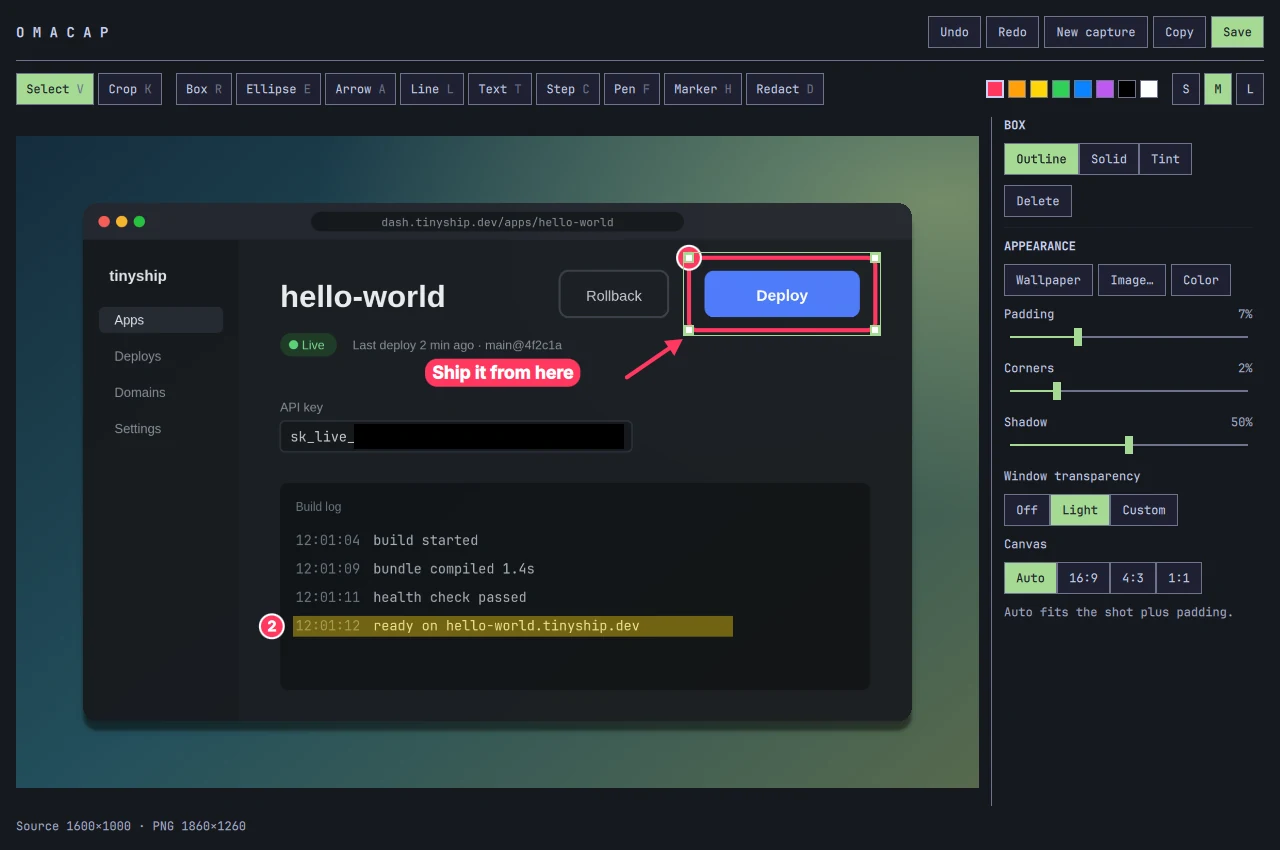
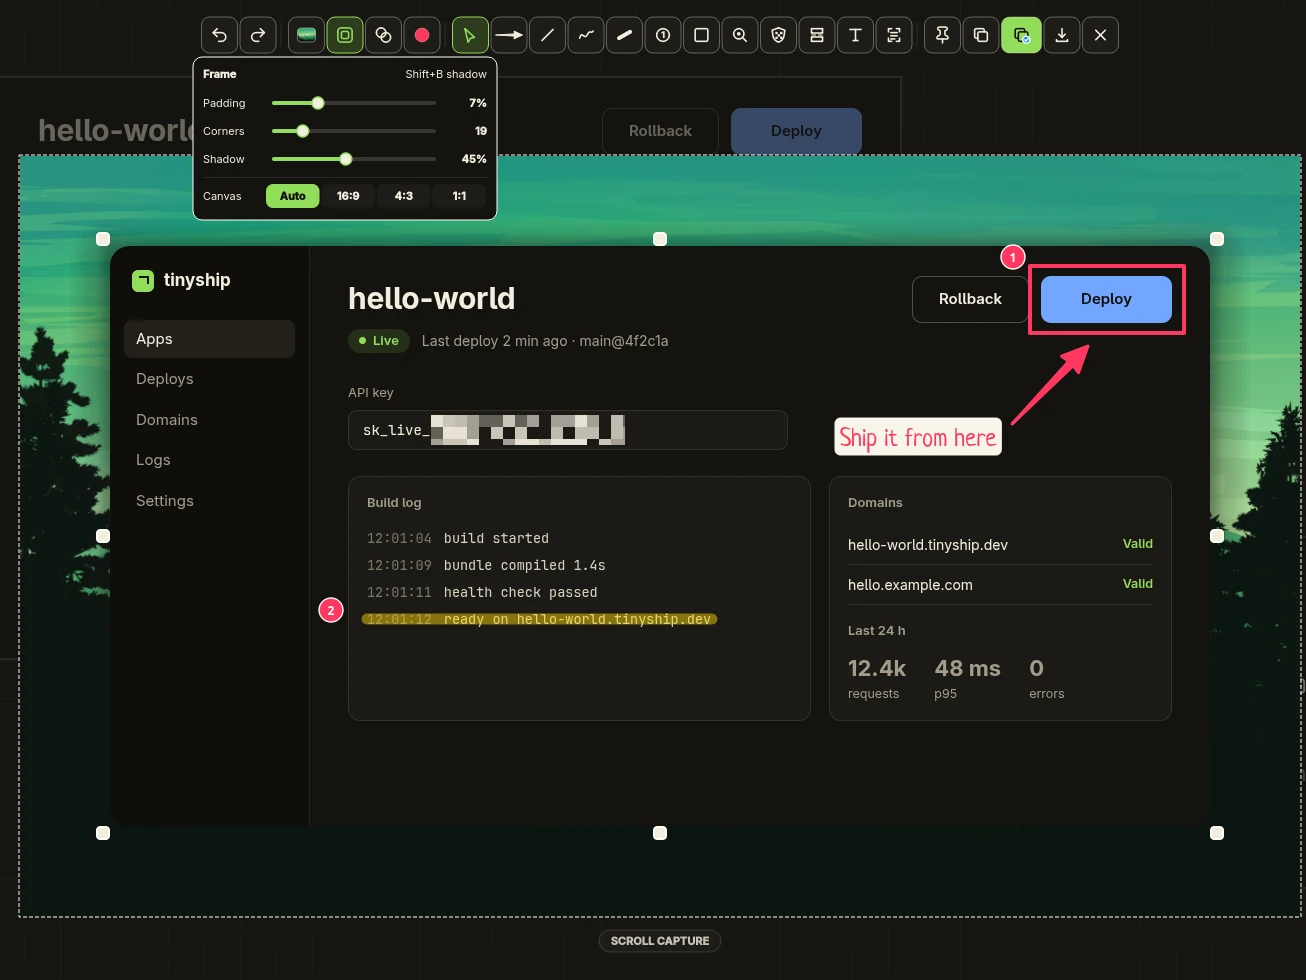
docs: describe the picker, card and overlay editors in the README
The README described the old app: a start window, a sidebar editor and
Omarchy's region picker. It now follows the new flow: one picker for
screenshots and recordings, the record bar and countdown, the card, both
editors over the desktop, export, recovery, key bindings and where files
go. Omasnap is credited in the intro and licence.

New screenshots come from a nested Hyprland with a generated dashboard and
terminal demo: the video editor, the picker in record mode, the
countdown, the card, zoom aiming, the export popover and the screenshot
editor. The recorder window's image is gone.

diff --git a/README.md b/README.md
@@ -2,24 +2,27 @@
 
 Screen recordings and screenshots worth sharing. Made for Omarchy.
 
-Record a window, clean up the take, and give it a background, padding and smooth zooms. Export an MP4 or GIF for a demo, tutorial or product update. Screenshots get the same frame, plus boxes, arrows, text, numbered steps and redaction. Everything stays on your computer.
+Press a key and pick an area. A screenshot is copied the moment you click, already framed like your last one. A recording gets a short editor: trim it, give it a background, padding and smooth zooms, and export an MP4 or GIF for a demo, tutorial or product update. Everything stays on your computer.
 
-[Install](#install) · [How to use it](#record-and-edit) · [Screenshots](#style-a-screenshot) · [MIT license](https://github.com/allisonmahmood/omacap/blob/main/LICENSE)
+OmaCap is built on [Omasnap](https://github.com/omacom/omasnap), Omarchy's screenshot tool, so its picker, annotation tools, pins and keys work the same way here.
 
-![OmaCap Studio showing a translucent terminal demo over a wallpaper, custom opacity controls and a zoom section on the timeline](docs/images/studio.webp)
+[Install](#install) · [Screenshots](#take-a-screenshot) · [Recordings](#record-your-screen) · [MIT license](https://github.com/allisonmahmood/omacap/blob/main/LICENSE)
 
-*The real OmaCap editor, shown with a generated terminal demo.*
+![OmaCap's video editor over a dimmed desktop: a terminal demo on a forest backdrop at 87% opacity, the transparency popover open and a zoom on the timeline](docs/images/studio.webp)
+
+*The real video editor, shown with a generated terminal demo.*
 
 ## A short edit, then you're done
 
-- **Make it look right.** Crop the recording, add padding, soften the corners and set a shadow. Your current Omarchy wallpaper is the default background; you can choose another image or a solid color.
-- **Keep the useful parts.** Trim the start and end, remove mistakes in the middle, and undo an edit when you change your mind.
-- **Zoom on purpose.** Keep the whole window visible by default. Add a zoom section, choose its focus, and adjust its timing on the timeline.
-- **Include yourself when you want.** Record your microphone, desktop audio and camera. Move the camera overlay, choose rounded corners or a circle, add a shadow, and mute either audio track.
-- **Take the file anywhere.** Export MP4 or GIF with your chosen size and frame rate. No account, upload or project library.
-- **Screenshots too.** Take one with Omarchy's region picker, mark it up with Omasnap's annotation tools, then copy or save a PNG at full resolution, up to 8192 px on its longer side.
+- **One picker for both.** The screen freezes: drag an area, click a window, or click empty space for the whole monitor. `V` switches between a screenshot and a recording.
+- **Make it look right.** A backdrop (your Omarchy wallpaper by default), padding, rounded corners, a shadow and optional window transparency. New screenshots start with the look you used last.
+- **Keep the useful parts.** Trim the ends, split and delete mistakes in the middle, and undo when you change your mind.
+- **Zoom on purpose.** Add a zoom at the playhead and aim it on the preview. OmaCap pans smoothly between zooms.
+- **Include yourself when you want.** Record your microphone, desktop audio and camera. Place the camera, choose a rectangle or circle, and mute either audio track.
+- **Mark up screenshots.** Arrows, boxes, text, numbered steps, highlighter, spotlight, redaction, cut-out bands, OCR, scrolling capture and pins, all from Omasnap.
+- **Take the file anywhere.** MP4 or GIF at your chosen size and frame rate. No account, upload or project library.
 
-The controls follow your Omarchy theme. Changing themes updates the app without changing the video you're editing.
+The controls follow your Omarchy theme, live.
 
 ## Install
 
@@ -32,9 +35,20 @@ sudo pacman -U ./omacap-*.pkg.tar.zst
 
 Keep only the package version you want to install in that directory. Pacman installs its dependencies. Release binaries target current Omarchy stable on x86_64. Update Omarchy through its normal update menu before installing a new OmaCap release.
 
-Open **OmaCap** from your application launcher, or run `omacap`. Already have a recording or a screenshot? Open it with `omacap /path/to/video.mp4` or `omacap /path/to/shot.png`.
+Open **OmaCap** from your application launcher to take a screenshot; its **Record screen** action runs `omacap --record`. To open a recording or screenshot you already have, run `omacap /path/to/video.mp4` or `omacap /path/to/shot.png`.
 
 For updates, download and install the newer package using the same steps. GitHub releases do not update through Omarchy or `yay`; you can subscribe with **Watch > Custom > Releases** on this repository. AUR distribution is not available yet. Uninstall with `sudo pacman -R omacap`.
+
+### Bind keys
+
+Add two bindings to `~/.config/hypr/bindings.lua`, then run `hyprctl reload`. Print stays with Omarchy's own screenshot tool:
+
+```lua
+o.bind("SHIFT + PRINT", "OmaCap screenshot", "omacap")
+o.bind("ALT + SHIFT + PRINT", "OmaCap record", "omacap --record")
+```
+
+Each key toggles. The screenshot key closes an open picker, and the record key stops a recording. Keep "OmaCap" and "record" in the record binding's description: the countdown finds the key by its description and tells you how to stop.
 
 ### Build from source
 
@@ -48,99 +62,133 @@ cd omacap
 
 This builds the committed checkout and installs its dependencies. OmaCap targets Hyprland and PipeWire on current Omarchy. Other desktops and distributions are not tested.
 
-## Record and edit
+## Take a screenshot
 
-### 1. Record a window or display
-
-Choose your microphone, camera and desktop audio options. Click **Select source and record**, choose a window or display in the system picker, and wait for the three-second countdown. Stop recording to open the editor. The recording is saved in your Videos folder as `omacap-<date>_<time>.mkv`.
-
-<img src="docs/images/recorder.webp" alt="OmaCap recorder with microphone, camera and desktop audio options" width="360">
-
-### 2. Crop, style and trim
-
-Click **Crop** to open the full recording in a dedicated crop view. Drag the corners to resize the selection, or drag inside it to move it. Click **Confirm crop** to apply it to the preview, **Cancel** to keep the previous crop, or **Reset** to select the full recording before confirming. Reopening Crop always shows the full source, so you can expand an earlier selection. Set the background, padding, corners and shadow while watching the preview. If you recorded a camera, choose its shape, corners and shadow, then drag it into place.
-
-**Window transparency** reveals the chosen background through the recording. Choose **Off**, **Light** for 96% opacity, or **Custom** to show an opacity slider. The camera stays opaque. The treatment appears in both MP4 and GIF exports and starts off for each new recording.
-
-Drag across the recording or its audio waveforms to select a range. **Keep range** trims the ends; **Delete selection** removes that range. Click **✂ Cut** and click a track to split a clip. Return to **Select**, click a clip, and press Delete to remove it. All recorded tracks stay linked.
-
-### 3. Add a deliberate zoom
-
-Click an empty part of the **Zooms** lane, or use **Add zoom**. Click a zoom block to preview it and show its focus map in the sidebar. Drag the focus circle or click the map; changes apply immediately, and each drag is one undo step. Click the recording or time ruler to return to the normal appearance controls and seek. Drag the zoom block or its ends to adjust its timing. OmaCap smoothly pans and zooms between views. Touching zoom sections transition directly between their targets without pulling back to the whole window.
-
-![Choosing a zoom focus in the sidebar while the main preview shows the zoom](docs/images/zoom.webp)
-
-### 4. Export and share
-
-Click **Export**, choose MP4 or GIF, set the output size and frame rate, and pick a local destination. MP4 supports audio; GIF is a silent loop of the whole edit. OmaCap shows the file size when the export finishes and warns when a GIF is over the 10 MB limit that GitHub and Discord apply.
-
-![OmaCap's local export dialog with MP4, output width, frame rate and quality settings](docs/images/export.webp)
-
-### Keyboard shortcuts
-
-| Action | Shortcut |
-| --- | --- |
-| Play / pause | Space |
-| Step backward / forward | Left / Right |
-| Cut / select mode | C / V, with the timeline focused |
-| Delete selected clip, range or zoom | Delete / Backspace, with the timeline focused |
-| Clear the zoom or annotation selection, or leave crop, cut or an annotation tool | Escape |
-| Undo | Ctrl+Z |
-| Redo | Ctrl+Shift+Z |
-| Annotation tools and colours, in a screenshot | V K R E A L T C F H D, 1–8 |
-| Copy / save a screenshot | Ctrl+C / Ctrl+S |
-| Copy and save a screenshot | Enter |
-
-There is no saved-project format. An interrupted edit has a recovery checkpoint. Export leaves the editor open so you can export again. Closing or discarding clears the edit; recordings, imported originals and exported files are kept.
-
-## Style a screenshot
-
-![OmaCap's screenshot editor with a box, arrow, text pill, numbered steps, a highlighted log line and a redacted API key over a dashboard](docs/images/screenshot.webp)
+![OmaCap's screenshot editor: a dashboard on a forest backdrop with a box and arrow on the Deploy button, a text label, numbered steps, a highlighted log line and a redacted API key; the Frame popover is open](docs/images/screenshot.webp)
 
 *The real screenshot editor, shown with a generated dashboard.*
 
-Click **Take screenshot** in the start window, or run `omacap --screenshot`. OmaCap gets out of the way and opens Omarchy's region picker: drag a region, click a window, or click empty space for the whole screen. Press Escape to cancel. The shot opens in the editor at your display's native resolution.
+Run `omacap`, or press your screenshot key. The screen freezes under the picker: drag an area, click a window, or click empty space for the whole monitor. The shot is copied and saved straight away, wearing the look you used last, and a preview appears in the corner. Hover it to edit, copy, pin or drag out the file. It fades after 10 seconds unless you pin it.
 
-To take one from a key, add a binding to `~/.config/hypr/bindings.lua`. Print stays with Omarchy's own screenshot tool:
+Press `E` in the picker to open the editor instead. `Tab` cycles the area's shape (free, square, 3:4, 16:9), `R` brings back the last area, and `S` captures a scrolling region and stitches it into one tall image. The stack on the right edge holds your last five shots; click one to reopen it with its marks still editable.
 
-```lua
-o.bind("SHIFT + PRINT", "OmaCap screenshot", "omacap --screenshot")
-```
+`omacap shot.png` opens an image you already have, and `omacap --clipboard` opens the one on the clipboard. OmaCap edits its own copy, so the original never changes.
 
-The binding works while OmaCap is open, too. If the current edit hasn't been copied, saved or exported, OmaCap asks before replacing it.
+### Style and annotate
 
-To open a screenshot you already have, run `omacap shot.png` with a PNG, JPEG or WebP, or click **Open image or video**. An animated GIF opens on the timeline like a recording; other animated images open as their first frame. OmaCap edits its own copy, so the original image is never changed.
+The editor draws over your desktop. `W` moves it into a normal window and back. The look lives in three toolbar popovers:
 
-A screenshot gets the same crop, background, padding, corners, shadow and window transparency as a recording, with no timeline. Choose a **Canvas**: **Auto** fits the shot plus its padding, and **16:9**, **4:3** and **1:1** suit posts.
+- **Backdrop**: your Omarchy wallpaper, Omasnap's slate and gradients, a colour, an image, or off. `B` cycles through them.
+- **Frame**: padding, corners and shadow (`Shift+B` toggles the shadow), and the canvas. **Auto** fits the shot plus its padding; **16:9**, **4:3** and **1:1** suit posts.
+- **Glass**: the window opaque, light (96%) or a custom opacity, so the backdrop shows through.
 
-The styled shot keeps the screenshot's own resolution, up to 8192 px on its longer side, and the status bar shows its size. **Copy** puts a PNG on the clipboard, which stays there after OmaCap closes. **Save** writes `omacap-<date>_<time>.png` to the folder Omarchy saves screenshots in: `$OMARCHY_SCREENSHOT_DIR` if it is set, or `~/Pictures/Screenshots`.
+| Key | Tool |
+| --- | --- |
+| V | Select. Drag to move, use a handle to resize, Delete removes. Arrow keys nudge 1 px, or 10 px with Shift. |
+| A | Arrow. Press again for pointy, curved and double arrows. |
+| L | Line. Hold Shift to snap to 45°. |
+| R / E | Rectangle / ellipse. Hold Shift for a square or circle. |
+| T | Text on a pill. Press again for plain text; `Shift+T` changes the font. |
+| C | Numbered step. Steps renumber when one is deleted. |
+| F / H | Pen / highlighter. The highlighter snaps to a line of text. |
+| S | Spotlight. |
+| D | Redact. Press again to switch between mosaic and solid. |
+| X | Cut out a band and close the gap. Hold Ctrl to insert one instead. |
+| O | Recognise all text and copy it. |
+| 1–8 | Colour of the selected mark and the next one. |
 
-### Annotate
+| Key | Output |
+| --- | --- |
+| Enter | Copy and save |
+| Ctrl+C / Ctrl+S | Copy only / save only |
+| Ctrl+Shift+S | Save as |
+| P | Pin it on screen |
+| Ctrl+Z / Ctrl+Shift+Z | Undo / redo |
+| Esc | Close; the shot stays in the stack on the right |
 
-A screenshot gets a tool row with Omasnap's annotation tools. Pick one, then drag on the shot or click it; OmaCap returns to Select afterwards.
+Screenshots are saved as `omacap-<date>_<time>-<app>.png` in `$OMARCHY_SCREENSHOT_DIR`, or `~/Pictures/Screenshots`. The picker and editor list their keys in a card at the bottom left; `?` folds it away. [Omasnap's README](snap/README.md#controls) lists every key and modifier.
 
-| Tool | Key | What it does |
-| --- | --- | --- |
-| Select | V | Click a mark to select it. Drag it to move, or drag a handle to resize. Arrow keys nudge it 1 px, or 10 px with Shift. Delete removes it. |
-| Crop | K | Opens the crop view. |
-| Box / Ellipse | R / E | Outline by default; the sidebar switches the selection to Solid or Tint. Hold Shift for a square or circle. |
-| Arrow / Line | A / L | Hold Shift to snap to 45°. |
-| Text | T | Click and type. Enter finishes; Shift+Enter adds a line. Double-click text to edit it, and choose Pill or Plain in the sidebar. |
-| Step | C | Click to place a numbered marker. Steps renumber when one is deleted. |
-| Pen / Marker | F / H | Freehand, and a translucent highlighter. |
-| Redact | D | An opaque black box. Nothing of the screenshot survives under it in the PNG. |
+## Record your screen
 
-Keys 1–8 and the colour swatches choose a colour, and the S, M and L buttons the size, for the selected mark and the next one. Sizes scale with the screenshot's resolution. Marks stay fully opaque over a transparent window, follow the screenshot when you crop, and may overhang the padding. Each mark, move or style change is one undo step.
+### 1. Pick an area
 
-## Before you record
+Run `omacap --record`, press your record key, or press `V` in the screenshot picker. Drag an area, click a window, or click empty space for the whole monitor. A bar appears beside it: click your microphone, camera and desktop audio, or press `M`, `C` and `D`. OmaCap remembers them. Press Enter or click **Record**.
 
-Keep a selected window at a fixed size. Resizing it or moving it between monitors with different scales can interrupt the Hyprland portal stream. Use display capture when your demo needs window resizing.
+![The picker in record mode: a terminal window picked, with a bar below it for the microphone, camera, desktop audio and Record](docs/images/record.webp)
 
-This version targets short SDR demos on a 16:9 canvas. Zooms are manual, and real camera/microphone synchronization should be checked with your own devices.
+### 2. Record
+
+A three-second countdown runs over the area, then recording starts. Press your record key again to stop.
+
+![The countdown over the picked terminal, naming the key that stops it, with a dashed outline and a timer outside the area](docs/images/recording.webp)
+
+Nothing of OmaCap ends up in the file. The recording is cropped to the area as it is captured, and the outline and timer sit outside it, or on another monitor. When you record a whole monitor and have no other, they aren't shown.
+
+The first time you record each monitor, Hyprland's screen-share picker asks what to share. Pick that monitor; OmaCap remembers it. The area is fixed on the screen, so move a window and the area stays put. Rotated monitors can't be recorded yet.
+
+### 3. Keep, export or edit
+
+When you stop, a card with the first frame appears in the corner. It doesn't take the keyboard until you hover it.
+
+<img src="docs/images/card.webp" alt="The card in the screen's corner after a recording, hovered, with Edit and Export" width="480">
+
+| Key | On the card |
+| --- | --- |
+| Enter | Export with your last export settings, to your Videos folder |
+| E | Edit |
+| P | Keep the card on screen |
+| X / Esc | Close |
+
+The card fades after 10 seconds unless you hover it, keep it or export. The recording itself is always kept in your Videos folder as `omacap-<date>_<time>.mkv`.
+
+### 4. Edit
+
+The editor draws over your desktop like the screenshot editor; `W` moves it into a window and OmaCap remembers which you prefer. The toolbar holds undo and redo, the look (backdrop, frame, glass, camera), the tools (select, crop, zoom, cut), and export and close.
+
+- **Crop** opens the whole recording. Drag the corners to resize the selection, or drag inside it to move it, then **Confirm crop**. Reopening Crop always shows the full recording, so you can expand an earlier crop.
+- **Look**: the backdrop is your wallpaper, an image or a colour; the frame sets padding, corners and shadow; glass shows the backdrop through the recorded window. The camera stays opaque. If you recorded a camera, its popover sets its size, shape, corners and shadow, and you can drag it in the preview. New recordings keep your last frame and camera settings.
+- **Trim and cut.** Drag across a lane to select a range, then **Keep range** or **Delete**. `S` splits at the playhead. The cut tool (`C`) splits a track where you click; `V` returns to select. Click a clip and press Delete to remove it. The microphone and speaker buttons mute either track.
+- **Zoom.** Press `Z`, or click an empty part of the Zooms lane. Select a zoom and the preview lights the area it zooms to: drag it to aim, and use the wheel or a corner to change the amount. Drag the zoom on the timeline, or its ends, to time it. Touching zooms move straight from one target to the next.
+
+![Aiming a zoom: the lit area over the terminal's first lines, with its amount and the zoom selected on the timeline](docs/images/zoom.webp)
+
+### 5. Export
+
+Click **Export** or press `E`. Choose MP4 or GIF, the width, frame rate and, for MP4, the quality, then **Choose file and export**. MP4 is H.264 with AAC audio; a GIF is a silent loop of the whole edit. Both are 16:9. OmaCap shows the file size when it finishes, warns when a GIF is over the 10 MB that GitHub and Discord accept, and remembers your choices for the card.
+
+![The Export popover with format, width, frame rate and quality](docs/images/export.webp)
+
+There is no project file. Export leaves the editor open so you can export again. Closing asks first if you changed anything since the last export. If OmaCap closes before you export, the next `omacap --record` shows the unfinished edit on a card first: **Recover** opens it, **Discard** drops it.
+
+| Action | Key |
+| --- | --- |
+| Play / pause | Space |
+| Step a frame | Left / Right |
+| Backdrop, frame, glass, camera | B, F, G, P |
+| Crop; confirm it | K; Enter |
+| Split at the playhead | S |
+| Add a zoom at the playhead | Z |
+| Cut / select tool | C / V |
+| Delete the selected clip, range or zoom | Delete / Backspace |
+| Export | E |
+| Window or overlay | W |
+| Undo / redo | Ctrl+Z / Ctrl+Shift+Z |
+| Back out of a popover, selection or crop, then close | Esc |
+
+### Limits
+
+This version targets short SDR demos on a 16:9 canvas. Zooms are manual, and real camera and microphone synchronisation should be checked with your own devices.
+
+## Files and settings
+
+- **Recordings**: `~/Videos/omacap-<date>_<time>.mkv`. The card's export writes `~/Videos/Demo-<date>-<time>.mp4` (or `.gif`); the editor's goes where you choose.
+- **Screenshots**: `$OMARCHY_SCREENSHOT_DIR`, or `~/Pictures/Screenshots`.
+- **Settings**: optional, in `~/.config/omacap/omacap.conf`, for screenshots. It takes [Omasnap's keys](snap/README.md#configuration-optional) except `[background]`, and `OMACAP_SCREENSHOT_DIR` overrides the folder.
+- **State**: the last look, your recording devices, recent shots and backdrop pictures, in `~/.local/state/omacap/`.
 
 ## Development
 
-C++20 and Qt Quick power the editor. Python/GStreamer handles capture; system FFmpeg encodes exports. Qt 6.5+ and OpenGL are required. See [the package recipe](packaging/PKGBUILD.in) for dependencies.
+C++20 and Qt 6, built with CMake and Ninja. `snap/` is the Omasnap-derived capture side: the picker, screenshot editor, previews and pins. `src/` and `qml/` are the video side: recording, the card, the video editor and exports. Python and GStreamer capture through the screen-cast portal; system FFmpeg encodes exports; Tesseract reads text. See [how OmaCap fits together](docs/architecture.md), [what OmaCap changed in Omasnap](snap/VENDORED.md), and [the package recipe](packaging/PKGBUILD.in) for dependencies.
 
 ```sh
 ./scripts/build.sh
@@ -148,16 +196,16 @@ C++20 and Qt Quick power the editor. Python/GStreamer handles capture; system FF
 ./scripts/test.sh
 ```
 
-Tests also need `python-numpy`. CI builds packages against Omarchy stable and latest Arch, runs the integration suite, and installs and launches each package in a fresh container. The suite checks synthetic capture, timeline gestures, waveforms, recovery, preview/export consistency, cancellation and audio/video timing under a virtual display. Split-only exports are compared frame by frame at 15, 30 and 60 fps. Real portal capture remains a manual check.
+Tests also need `python-numpy`. `test.sh` runs Omasnap's smoke tests offscreen, then the integration suite: synthetic capture, timeline gestures, waveforms, recovery, preview/export consistency, cancellation and audio/video timing. CI builds packages against Omarchy stable and latest Arch, runs the tests under Xvfb, and installs and launches each package in a fresh container. Recording through the real portal is tested locally, as below.
+
+To try OmaCap on a real compositor without touching your session, `scripts/nested-hyprland.sh start <dir>` runs a nested Hyprland in a hidden window and prints the `WAYLAND_DISPLAY` and `HYPRLAND_INSTANCE_SIGNATURE` to use. `scripts/nested-portal.sh start <dir>` adds a private screen-cast portal with a scripted picker, and `tests/record-nested.py <dir>` records through it and checks that no OmaCap pixel is saved. Give OmaCap its own `OMACAP_RUNTIME_DIR` and XDG directories there, so it can't reach a running OmaCap. The headers of these scripts explain the rest.
 
 In T3 Code, import **Build and run** and **Run tests** from **From t3.json** in the project scripts menu. The shared configuration also sets the OmaCap project icon. Both actions run on demand in the current thread's checkout.
 
-For a per-user install after building, run `./scripts/install-local.sh` instead of installing the Arch package.
-
-If you previously used the per-user install, its `~/.local/bin/omacap` and desktop entry can take precedence over the package. Remove those earlier OmaCap files when switching to the package installation.
+For a per-user install after building, run `./scripts/install-local.sh` instead of installing the Arch package. Its `~/.local/bin/omacap` and desktop entry take precedence over the package, so remove them when you switch to the package.
 
 See [Releasing OmaCap](docs/releasing.md) for preparing a draft release and publishing it on GitHub.
 
 ## License
 
-[MIT](https://github.com/allisonmahmood/omacap/blob/main/LICENSE). Multimedia dependencies retain their own licenses. OmaCap is independent and contains no Cap code or assets.
+[MIT](https://github.com/allisonmahmood/omacap/blob/main/LICENSE). `snap/` is derived from [Omasnap](https://github.com/omacom/omasnap), MIT licensed, © 2026 Tobi Lütke ([its licence](snap/LICENSE)); its bundled fonts keep their OFL licences and its Lucide icons their ISC licence. Multimedia dependencies retain their own licenses. OmaCap is independent and contains no Cap code or assets.
